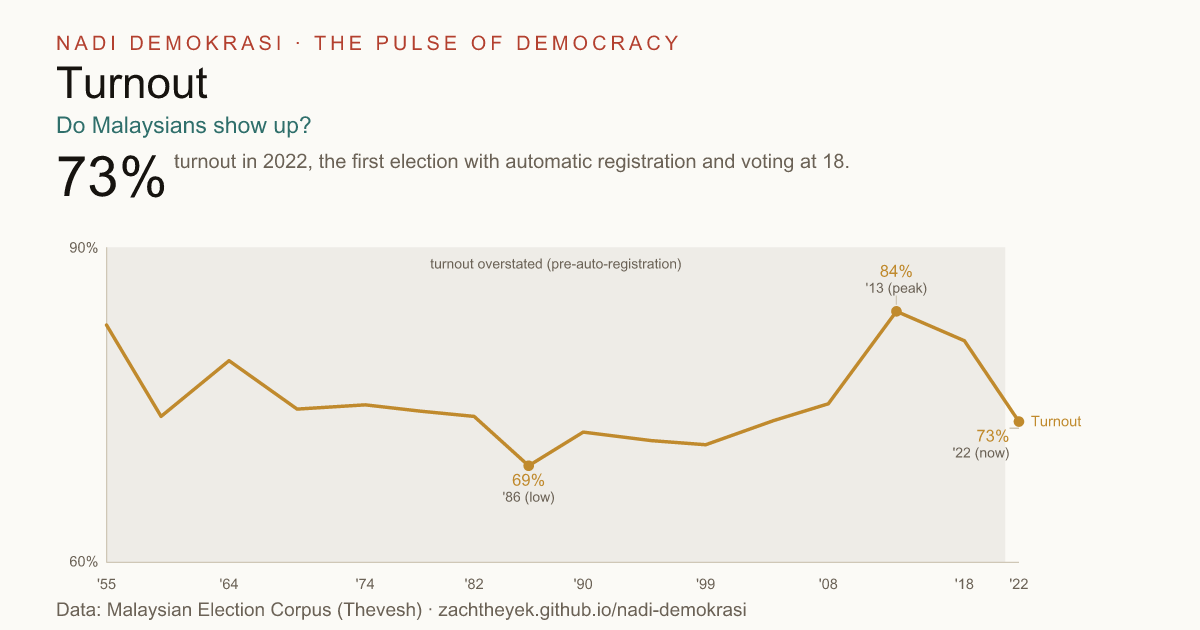
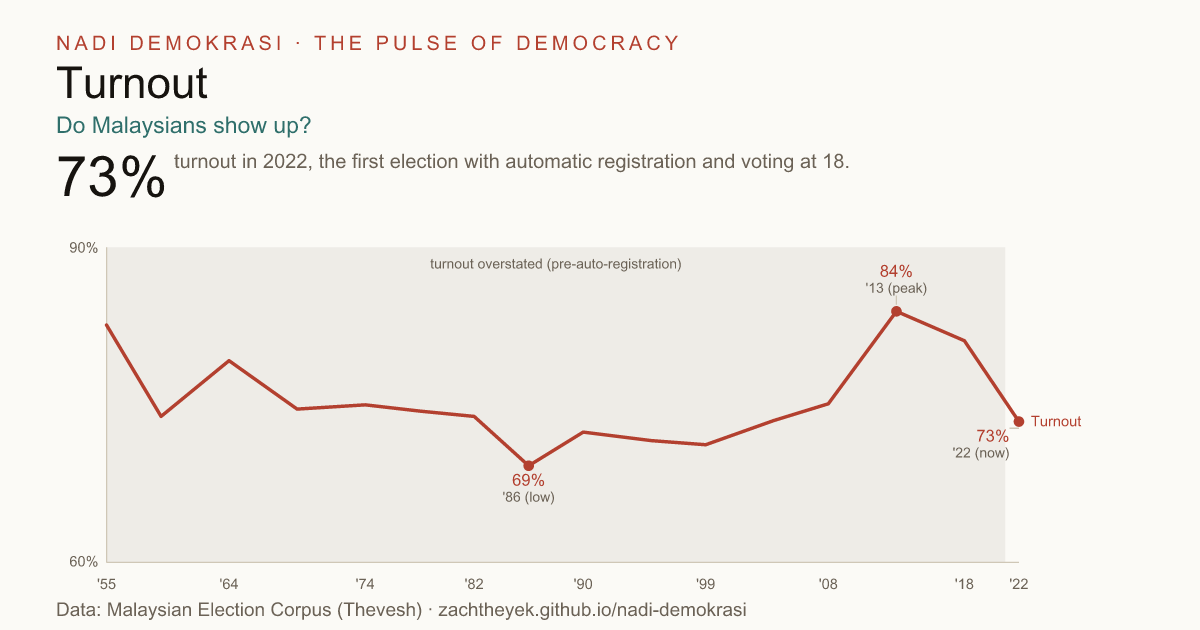
Volatility + turnout: focal line red (matching every other chart); '1.5-party era' nudged left
- Volatility (was teal) and turnout (was gold) focal lines are now clay red, so all focal
  series share the single accent (per the house rule). Callout values and end labels follow
  the series colour automatically; the corresponding prose highlights switch teal/gold -> red
  (hlt/hlg -> hl) in the volatility body+note and turnout body.
- Fragmentation: '1.5-party era' label shifted slightly left (labelAt year 1981 -> 1980).

diff --git a/src/main.ts b/src/main.ts
@@ -226,8 +226,8 @@ function sections(): Sec[] {
     },
     /* 7 ─ how much the vote moves */
     "volatility": {
-      body: `Pedersen volatility sums how much each bloc's vote share shifts from one election to the next. The largest realignments by this measure came in ${hlt(volTop.map((r) => r.year).sort((a, b) => a - b).join(", "))} — each a wholesale redrawing of who voted for whom. The calmest elections — ${volDips.slice().sort((a, b) => a.year - b.year).map((r) => hlt(String(r.year))).join(" and ")} — were near-repeat contests, where little support moved between blocs.`,
-      note: r2008 ? `A caution on reading this chart: the ${r2008.year} "political tsunami" — when the ruling coalition lost its two-thirds majority — barely registers here (${hlt(num(r2008.volatility ?? 0))}). That shock was about <em>seats</em>, not vote share: BN still won ${hlt(num(r2008.winner_vote_pc) + "%")} of the vote, so relatively little support actually moved between blocs. Vote volatility and seat change can tell very different stories.` : undefined,
+      body: `Pedersen volatility sums how much each bloc's vote share shifts from one election to the next. The largest realignments by this measure came in ${hl(volTop.map((r) => r.year).sort((a, b) => a - b).join(", "))} — each a wholesale redrawing of who voted for whom. The calmest elections — ${volDips.slice().sort((a, b) => a.year - b.year).map((r) => hl(String(r.year))).join(" and ")} — were near-repeat contests, where little support moved between blocs.`,
+      note: r2008 ? `A caution on reading this chart: the ${r2008.year} "political tsunami" — when the ruling coalition lost its two-thirds majority — barely registers here (${hl(num(r2008.volatility ?? 0))}). That shock was about <em>seats</em>, not vote share: BN still won ${hl(num(r2008.winner_vote_pc) + "%")} of the vote, so relatively little support actually moved between blocs. Vote volatility and seat change can tell very different stories.` : undefined,
       method: {
         eq: String.raw`V = \tfrac{1}{2} \textstyle\sum_i \lvert v_{i,t} - v_{i,t-1} \rvert`,
         where: `<strong>v<sub>i,t</sub></strong> is bloc <em>i</em>'s vote share at election <em>t</em>. Blocs are matched across elections with pure renames collapsed (PERIKATAN→BN, BA→PR→PH), so relabelling is not counted as change — but genuine splits and mergers are. The first election has no prior to compare against, so its value is null.`,
@@ -253,7 +253,7 @@ function sections(): Sec[] {
     },
     /* 10 ─ do people show up */
     "turnout": {
-      body: `Turnout has stayed high — between ${hlg(num(tLow.turnout ?? 0) + "% and " + num(tPeak.turnout ?? 0) + "%")} across seven decades. The peak was ${hlg(num(tPeak.turnout ?? 0) + "% in " + tPeak.year)}, the most fiercely contested election of the BN era. It then fell to ${hlg(num(L.turnout ?? 0) + "%")} in ${L.year}, a drop of ${hlg(num(tDrop, 1) + " points")} from ${tPrev.year}, despite millions of newly-enrolled young voters under automatic registration and Undi18 — a puzzle worth its own study.`,
+      body: `Turnout has stayed high — between ${hl(num(tLow.turnout ?? 0) + "% and " + num(tPeak.turnout ?? 0) + "%")} across seven decades. The peak was ${hl(num(tPeak.turnout ?? 0) + "% in " + tPeak.year)}, the most fiercely contested election of the BN era. It then fell to ${hl(num(L.turnout ?? 0) + "%")} in ${L.year}, a drop of ${hl(num(tDrop, 1) + " points")} from ${tPrev.year}, despite millions of newly-enrolled young voters under automatic registration and Undi18 — a puzzle worth its own study.`,
       method: {
         eq: String.raw`T = \dfrac{1}{n} \textstyle\sum_c \dfrac{b_c}{e_c}`,
         where: `for each seat <em>c</em>, <strong>b<sub>c</sub></strong> is ballots cast and <strong>e<sub>c</sub></strong> registered electors; <strong>n</strong> is the number of seats. The denominator is <em>registered</em> voters — so before automatic registration in 2021, ${hlt("older figures overstate participation among the voting-age population")}, because many eligible adults were never on the roll.`,
